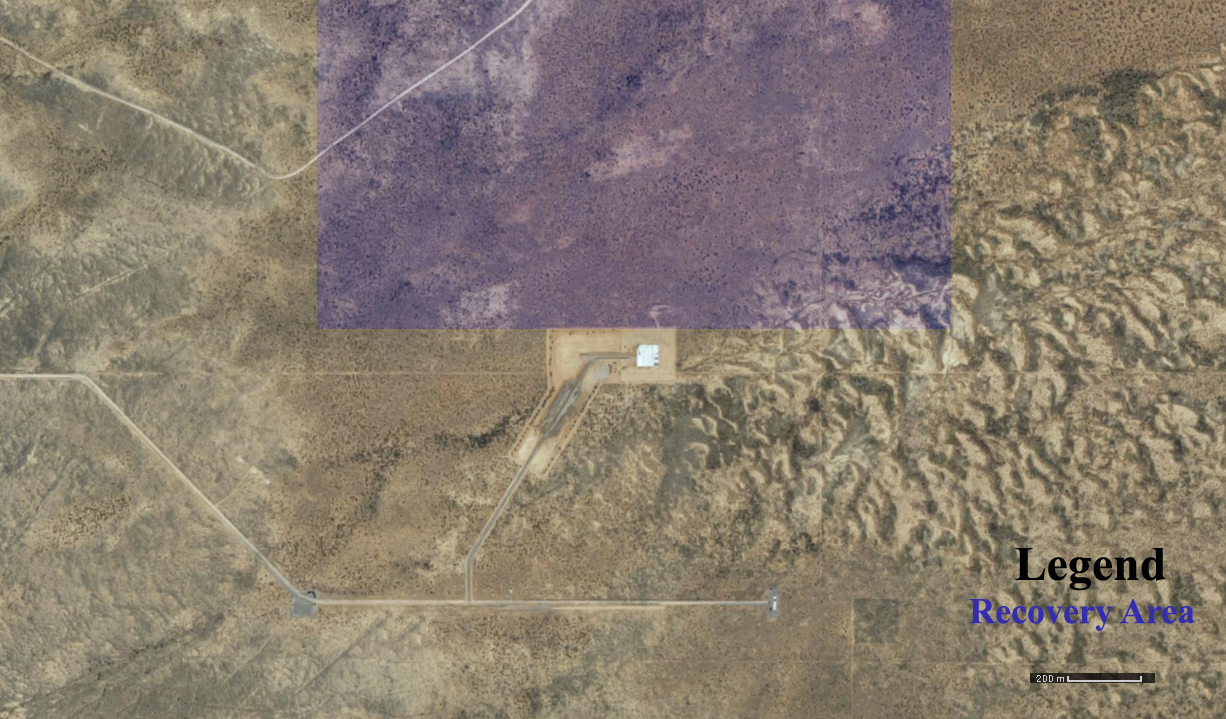
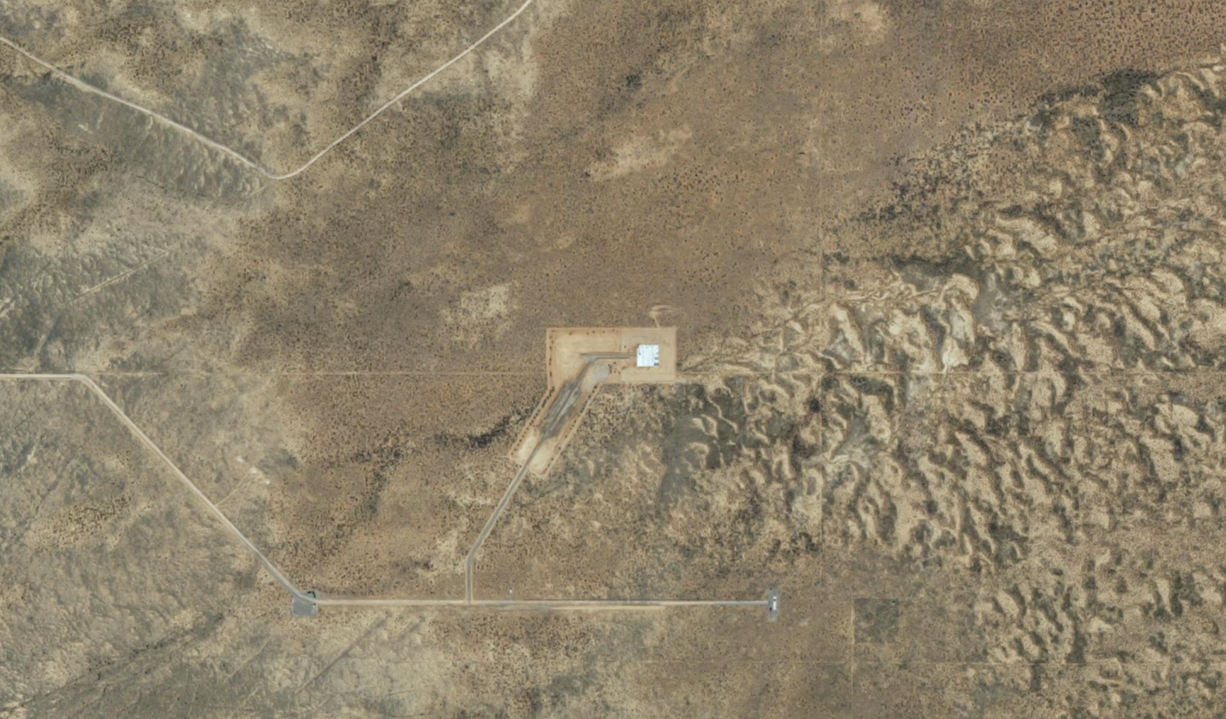
Removed Crosshair Added Red Dot for Path Seperated choose_map()

Changed region(s): [[0.7749, 0.765, 0.9918, 0.8873], [0.8369, 0.9179, 0.9608, 0.9485]]

diff --git a/GPSMap.py b/GPSMap.py
@@ -23,69 +23,87 @@ class Map:
     def __init__(self, master):
         self.__master = master
 
-        # Sets frame
+    # Sets frame
         self.__master.resizable(width=False, height=False)
         self.__master.geometry('{}x{}'.format(width, height))
         self.__frame = Frame(self.__master)
         self.__frame.pack()
 
-        # Runs Map functions
-        self.run()
+    # Runs Map functions
+        self.__label_map = None
+        self.__load_smap()
+        self.__load_lmap()
+        self.__load_Circle()
+        self.__load_Crosshair()
+        self.__map_parameters()
+        self.__choose_first_map()
+        self.__setup_display_map()  # Display the map on the Window/Fram FOR THE FIRST TIME
+        self.__run()
+
+
+        # Runs all functions
+    def __run(self):
+        self.__getRandomNumber()  # Gets random Coordinates for Crosshair
+        self.__choose_map()  # Chooses Small or Large Map based on location of Crosshair and pastes Images over New Map files
+        self.__load_map()  # Loads New Maps
+        self.__label_map.config(image = self.__map)
+
+
+        self.__master.after(500, self.__run)
+
 
         # Loads Small Map
-    def load_smap(self):
+    def __load_smap(self):
         self.__load_smallmap = Image.open("Small Map.png")
         self.__load_smallmap.thumbnail(size=(width, height))
 
         # Loads Large Map
-    def load_lmap(self):
+    def __load_lmap(self):
         self.__load_largemap = Image.open("Large Map.png")
         self.__load_largemap.thumbnail(size=(width, height))
 
+        # Loads modified Maps
+    def __load_map(self):
+        self.__load_largemap = Image.open("Large map1.png")
+        self.__load_largemap.thumbnail(size=(width, height))
+        self.__load_smallmap = Image.open("Small map1.png")
+        self.__load_smallmap.thumbnail(size=(width, height))
+
         # Loads Crosshair
-    def load_Crosshair(self):
+    def __load_Crosshair(self):
         self.__load_crosshair = Image.open("Crosshair.png")
         self.__crosshair_size = (20, 20)
         self.__load_crosshair.thumbnail(size=(self.__crosshair_size[0], self.__crosshair_size[1]))
 
+    def __load_Circle(self):
+        self.__load_circle = Image.open("circle.png")
+        self.__circle_size = (5, 5)
+        self.__load_circle.thumbnail(size=(self.__circle_size[0], self.__circle_size[1]))
+
         # Coordinates of Small and Large Map sides
-    def map_parameters(self):
+    def __map_parameters(self):
         self.__smallmap_side = {'top': 32.955651, 'bot': 32.937436, 'left': -106.930123, 'right': -106.892924}
         self.__largemap_side = {'top': 32.979024, 'bot': 32.925260, 'left': -106.967445, 'right': -106.858726}
 
-    # Runs all functions
-    def run(self):
-        self.load_smap()
-        self.load_lmap()
-        self.load_Crosshair()
-        self.map_parameters()
-        self.__random_coordinate = self.getRandomNumber()  # Gets random Coordinates for Crosshair
-        self.choose_map()  # Chooses Small or Large Map based on location of Crosshair
-        self.convert_pixel()  # Converts Coordinates to x,y Pixels to position Crosshair on Map
-        self.display_map()  # Displays Map and Crosshair
-        "self.__master.after(2000, self.run)"
 
-
-    # Random test Coordinates
-    def getRandomNumber(self):
+        # Random test Coordinates
+    def __getRandomNumber(self):
         self.__rand = [round(random.uniform(self.__largemap_side['bot'], self.__largemap_side['top']), 6), round(random.uniform(self.__largemap_side['right'], self.__largemap_side['left']), 6)]
         print(self.__rand)
-        return self.__rand
 
-
-    # Converts latitude/longitude coordinates to x,y pixels for Crosshair placement
-    def convert_pixel(self):
+        # Converts latitude/longitude coordinates to x,y pixels for Crosshair placement
+    def __convert_pixel(self):
         # Sets length, width, and border values of map frame in terms of latitude and longitude coordinates
         self.__latitude_length = self.__map_side['top'] - self.__map_side['bot']
         self.__longitude_length = (self.__map_side['left'] - self.__map_side['right']) * (-1)
 
         # Derives proportionality between latitude/longitude coordinates and x,y direction pixels
-        y_relation = height / self.__latitude_length
-        x_relation = width / self.__longitude_length
+        y_factor = height / self.__latitude_length
+        x_factor = width / self.__longitude_length
 
         # Converts latitude/longitude coordinates to x,y pixel parameters
-        y = (self.__map_side['top'] - self.__rand[0]) * y_relation
-        x = (self.__map_side['left'] - (self.__rand[1]))*(-1) * x_relation
+        y = (self.__map_side['top'] - self.__rand[0]) * y_factor
+        x = (self.__map_side['left'] - (self.__rand[1])) * (-1) * x_factor
 
         # Seperates integers and decimals
         self.__pixel_integer = [int(y), int(x)]
@@ -94,32 +112,73 @@ class Map:
         print(y % 1, x % 1)
 
 
-    # Chooses Map and notifies user if Rocket leaves Small Map
-    def choose_map(self):
-        # Chooses Large Map if Rocket leaves top or bot and left or right sides of Small Map
-        if (self.__random_coordinate[0] > self.__smallmap_side['top'] or self.__random_coordinate[0] < self.__smallmap_side['bot']) or (self.__random_coordinate[1] < self.__smallmap_side['left'] or self.__random_coordinate[1] > self.__smallmap_side['right']):
+        # Chooses Ininial Map Image and notifies user if Rocket leaves Small Map
+    def __choose_first_map(self):
+            # Chooses Large Map if Rocket leaves top or bot and left or right sides of Small Map
+        if (self.__rand[0] > self.__smallmap_side['top'] or self.__rand[0] < self.__smallmap_side['bot']) or (self.__rand[1] < self.__smallmap_side['left'] or self.__rand[1] > self.__smallmap_side['right']):
             print("Rocket leaving competition area!!!")
 
             self.__map_side = self.__largemap_side.copy()
+            self.__convert_pixel()
+            self.__load_largemap.paste(self.__load_circle, (self.__pixel_integer[1] - int(self.__circle_size[0] / 2), self.__pixel_integer[0] - int(self.__circle_size[1] / 2)), self.__load_circle)
+            self.__load_largemap.save("Large Map1.png")
+            self.__load_smallmap.save("Small Map1.png")
             self.__load_map = self.__load_largemap
 
-        # Chooses Small Map if Rocket enters top or bot and left or right sides of Small map
-        elif self.__random_coordinate[0] < self.__smallmap_side['top'] or self.__random_coordinate[0] > self.__smallmap_side['bot'] or (self.__random_coordinate[1] > self.__smallmap_side['left'] or self.__random_coordinate[1] < self.__smallmap_side['right']):
+            # Chooses Small Map if Rocket enters top or bot and left or right sides of Small map
+        elif self.__rand[0] < self.__smallmap_side['top'] or self.__rand[0] > self.__smallmap_side['bot'] or (self.__rand[1] > self.__smallmap_side['left'] or self.__rand[1] < self.__smallmap_side['right']):
+
             self.__map_side = self.__smallmap_side.copy()
+            self.__convert_pixel()
+            self.__load_smallmap.paste(self.__load_circle, (self.__pixel_integer[1] - int(self.__circle_size[0] / 2), self.__pixel_integer[0] - int(self.__circle_size[1] / 2)), self.__load_circle)
+            self.__load_smallmap.save("Small Map1.png")
+            self.__load_largemap.paste(self.__load_circle, (self.__pixel_integer[1] - int(self.__circle_size[0] / 2), self.__pixel_integer[0] - int(self.__circle_size[1] / 2)), self.__load_circle)
+            self.__load_largemap.save("Large Map1.png")
+            self.__load_map = self.__load_smallmap
+
+        # Chooses Consecutive Map Images and notifies user if Rocket leaves Small Map in run()
+    def __choose_map(self):
+            # Chooses Large Map if Rocket leaves top or bot and left or right sides of Small Map
+        if (self.__rand[0] > self.__smallmap_side['top'] or self.__rand[0] < self.__smallmap_side['bot']) or (self.__rand[1] < self.__smallmap_side['left'] or self.__rand[1] > self.__smallmap_side['right']):
+            print("Rocket leaving competition area!!!")
+
+            self.__map_side = self.__largemap_side.copy()
+            self.__convert_pixel()
+            self.__load_largemap.paste(self.__load_circle, (self.__pixel_integer[1] - int(self.__circle_size[0] / 2), self.__pixel_integer[0] - int(self.__circle_size[1] / 2)),self.__load_circle)
+            self.__load_largemap.save("Large Map1.png")
+            self.__load_map = self.__load_largemap
+
+            # Chooses Small Map if Rocket enters top or bot and left or right sides of Small map
+        elif self.__rand[0] < self.__smallmap_side['top'] or self.__rand[0] > self.__smallmap_side['bot'] or (self.__rand[1] > self.__smallmap_side['left'] or self.__rand[1] < self.__smallmap_side['right']):
+
+            self.__map_side = self.__smallmap_side.copy()
+            self.__convert_pixel()
+            self.__load_smallmap.paste(self.__load_circle, (self.__pixel_integer[1] - int(self.__circle_size[0] / 2), self.__pixel_integer[0] - int(self.__circle_size[1] / 2)), self.__load_circle)
+            self.__load_smallmap.save("Small Map1.png")
+            self.__load_largemap.paste(self.__load_circle, (self.__pixel_integer[1] - int(self.__circle_size[0] / 2), self.__pixel_integer[0] - int(self.__circle_size[1] / 2)), self.__load_circle)
+            self.__load_largemap.save("Large Map1.png")
             self.__load_map = self.__load_smallmap
 
 
-    # Displays Map and Crosshair
-    def display_map(self):
-        self.__load_crosshair = self.__load_crosshair.convert("RGBA")
-        self.__new_crosshair = Image.blend(self.__load_map, self.__load_crosshair, 0.5)
-        self.__new_crosshair.save("new.png", "PNG")
+        # Displays Map and Crosshair
+    def __setup_display_map(self):
         self.__map = ImageTk.PhotoImage(self.__load_map)
-        label_map = Label(self.__frame, image=self.__map)
-        label_map.pack()
+        self.__label_map = Label(self.__frame, image=self.__map)
+        self.__label_map.image = self.__map
+        self.__label_map.pack()
+
+
+
+
 
 if __name__ == '__main__':
     root = Tk()
     run_map = Map(root)
     root.mainloop()
 
+
+#self.__load_map.paste(self.__load_crosshair, (self.__pixel_integer[1] - int(self.__crosshair_size[0] / 2),self.__pixel_integer[0] - int(self.__crosshair_size[1] / 2)), self.__load_crosshair)  # Positions and blends Crosshair with map
+
+#self.__map_canvas = Canvas(self.__master, height=height, width=width, bg="blue")
+#self.__display = self.__map_canvas.create_image(width / 2, height / 2, image=self.__map)
+#self.__map_canvas.pack()
